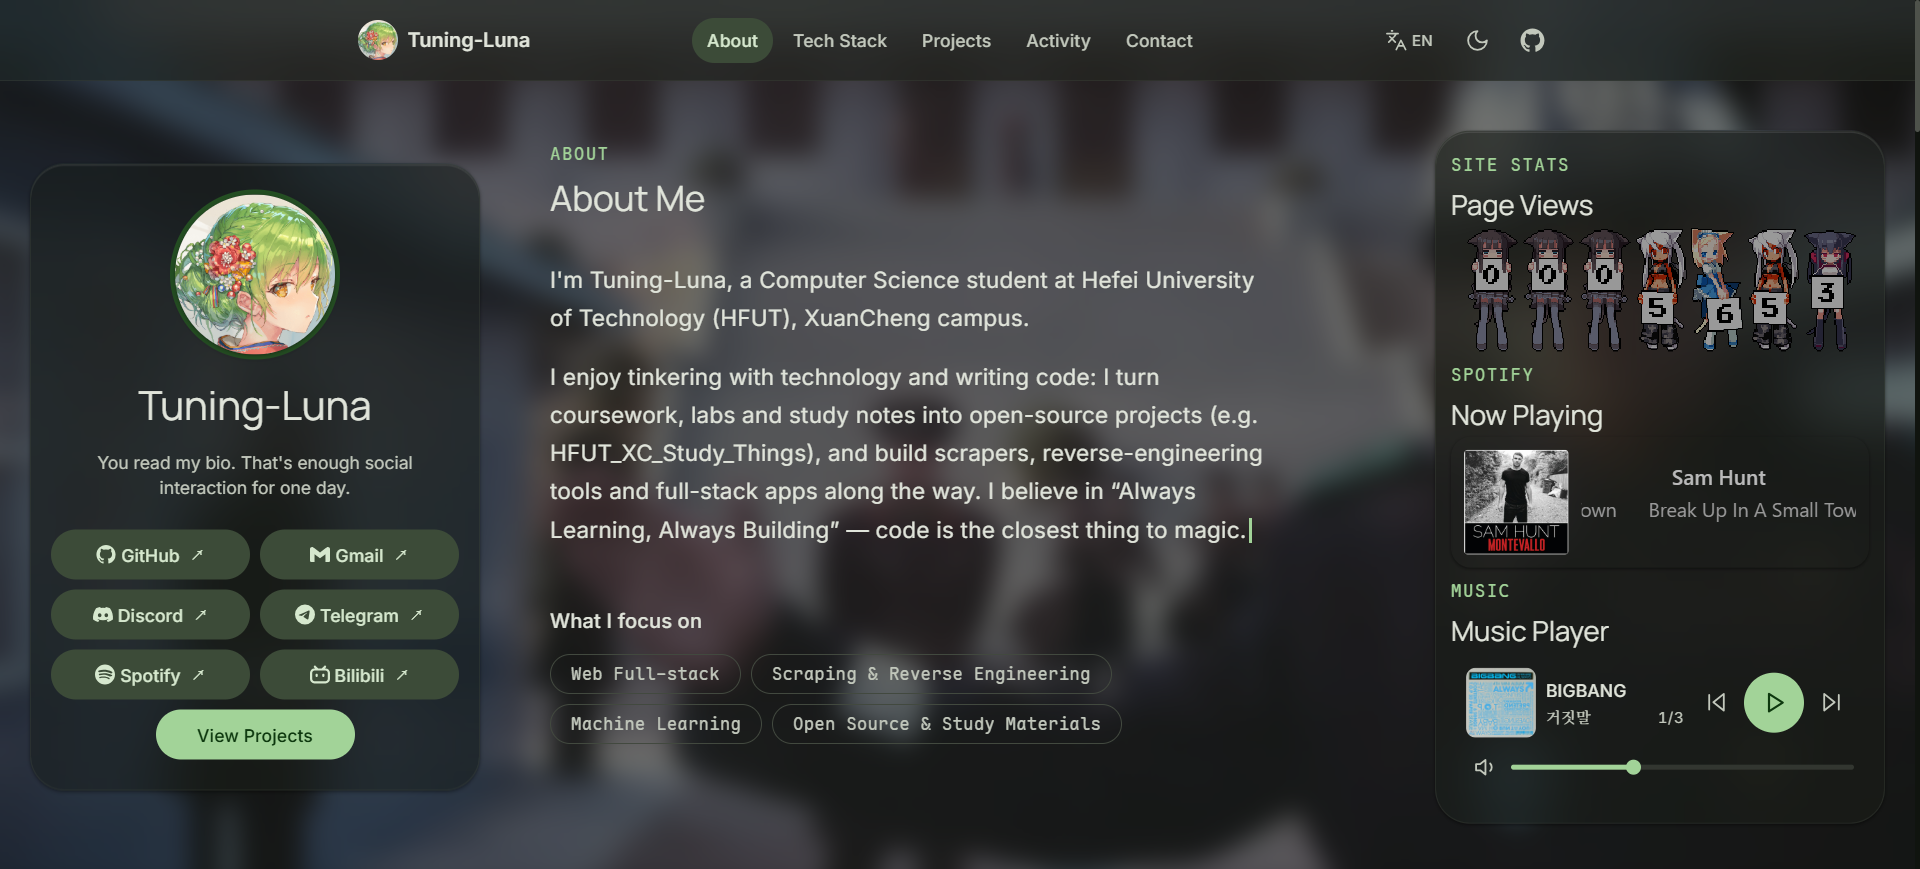
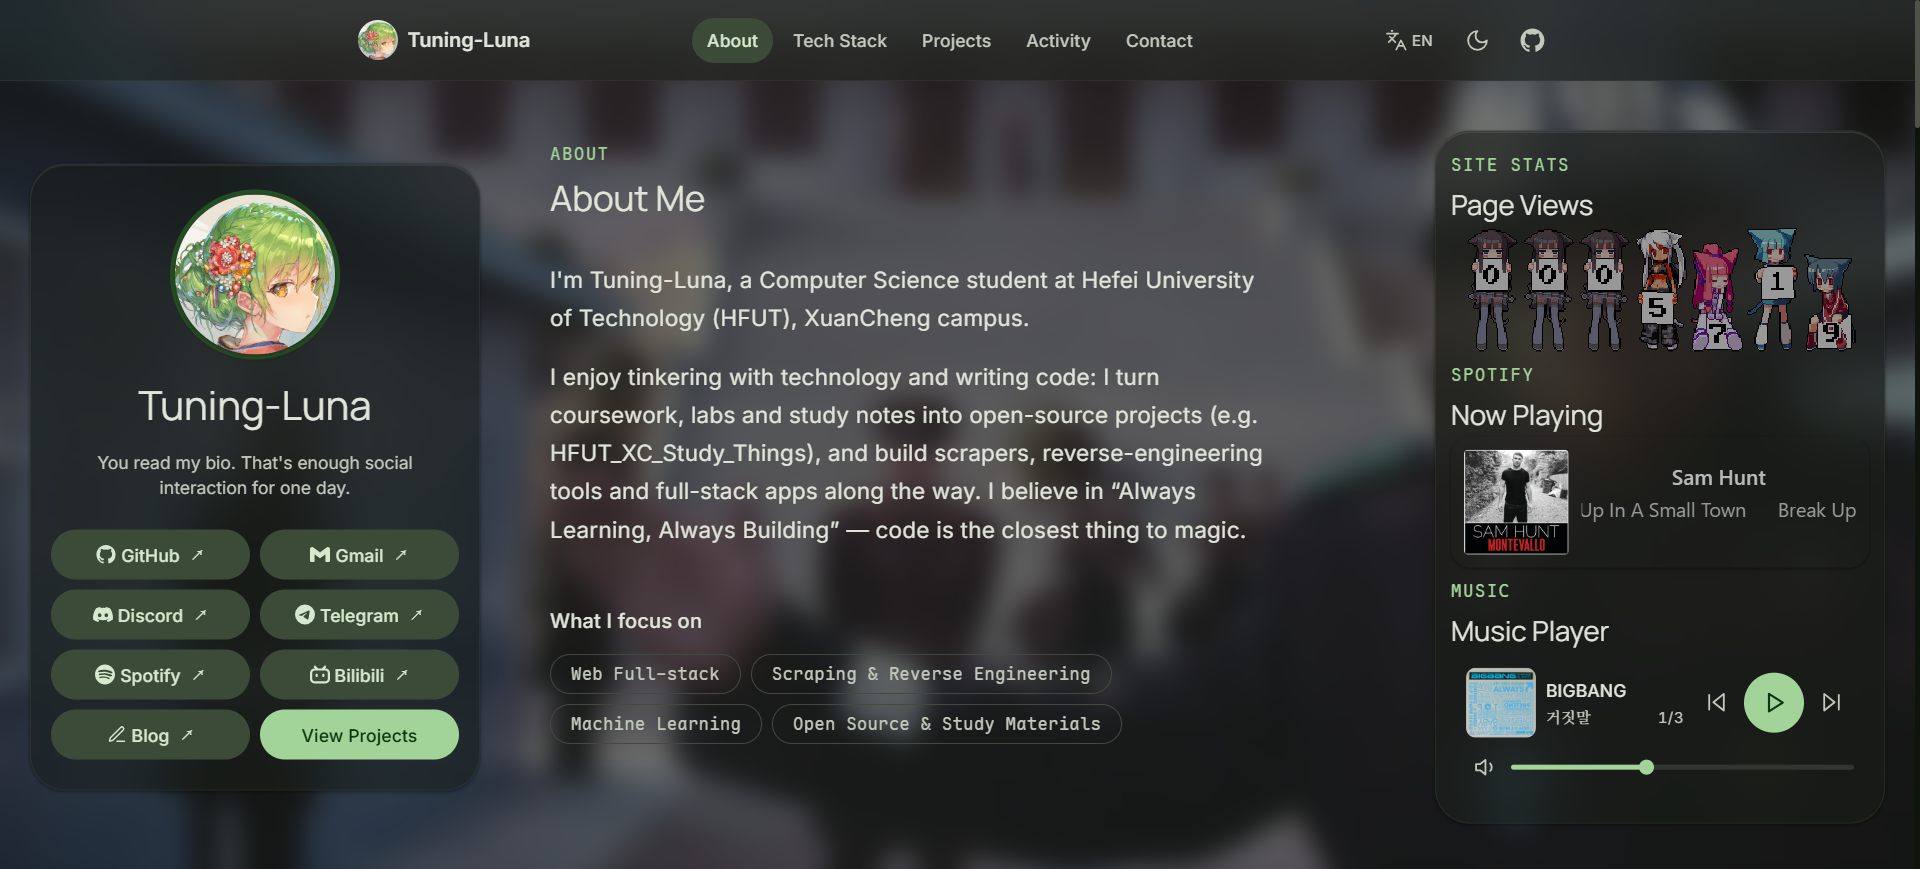
chore：replace new image and speeding up typewriter

diff --git a/src/sections/About.tsx b/src/sections/About.tsx
@@ -16,7 +16,7 @@ export function About() {
 
   const text1 = t('about.p1')
   const text2 = t('about.p2')
-  const { value } = useTypewriter(`${text1}${P1_P2_SEPARATOR}${text2}`)
+  const { value } = useTypewriter(`${text1}${P1_P2_SEPARATOR}${text2}`, { intervalMs: 12 })
 
   // Reserve the paragraphs' final height up front (measured from a hidden
   // full-text clone) so typing never pushes the sections below down.
